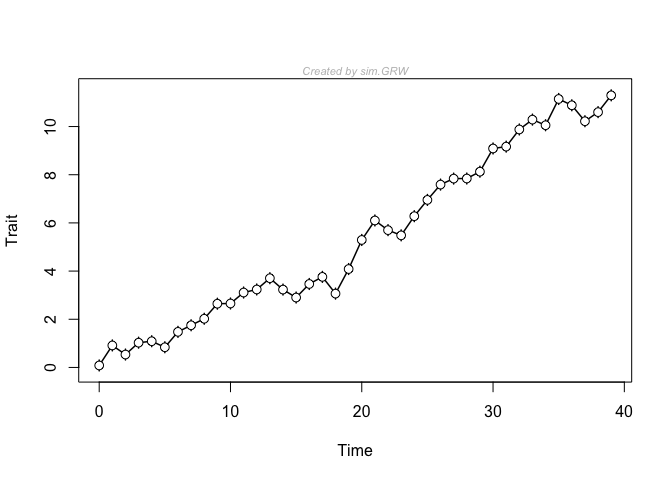
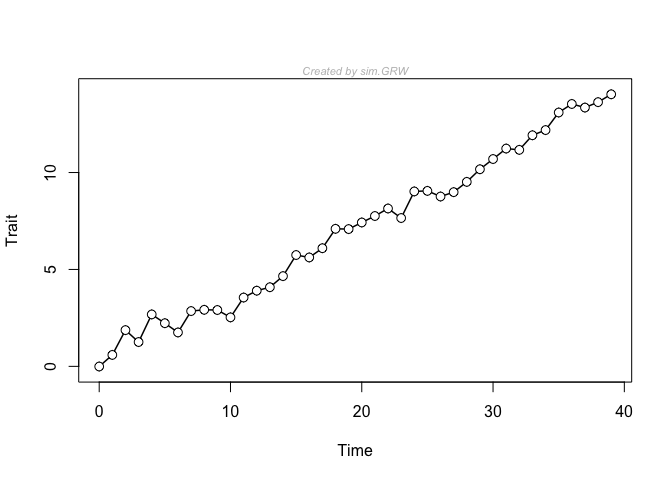
version 0.6.2

diff --git a/inst/doc/paleoTS_basics.html b/inst/doc/paleoTS_basics.html
@@ -12,7 +12,7 @@
 
 <meta name="author" content="Gene Hunt" />
 
-<meta name="date" content="2024-06-05" />
+<meta name="date" content="2024-09-10" />
 
 <title>Basics of paleoTS</title>
 
@@ -340,7 +340,7 @@ code > span.er { color: #a61717; background-color: #e3d2d2; }
 
 <h1 class="title toc-ignore">Basics of paleoTS</h1>
 <h4 class="author">Gene Hunt</h4>
-<h4 class="date">2024-06-05</h4>
+<h4 class="date">2024-09-10</h4>
 
 
 

diff --git a/README.md b/README.md
@@ -34,9 +34,9 @@ fit3models(y)
 #> Comparing 3 models [n = 40, method = Joint]
 #> 
 #>              logL K      AICc     dAICc Akaike.wt
-#> GRW     -26.71456 3  60.09579   0.00000     0.998
-#> URW     -34.09895 2  72.52223  12.42644     0.002
-#> Stasis -106.97466 2 218.27365 158.17785     0.000
+#> GRW     -26.86719 3  60.40106   0.00000         1
+#> URW     -37.85943 2  80.04318  19.64213         0
+#> Stasis -113.33758 2 230.99949 170.59844         0
 ```
 
 Take a look at the vignette “paleoTS_basics” for more of an introduction

diff --git a/NEWS.md b/NEWS.md
@@ -1,3 +1,14 @@
+# paleoTS 0.6-2
+
+## Bug fix
+* corrected a bug, reported by N. Hohmann, in test.var.het() so that it gracefully handles a situation 
+where some sample variances are zero.
+
+## Minor changes
+* Added a warning message to fit3models() and fit4models() that cautions against interpreting model support
+for very short sequences.
+
+
 # paleoTS 0.6.1
 
 ## Major changes
